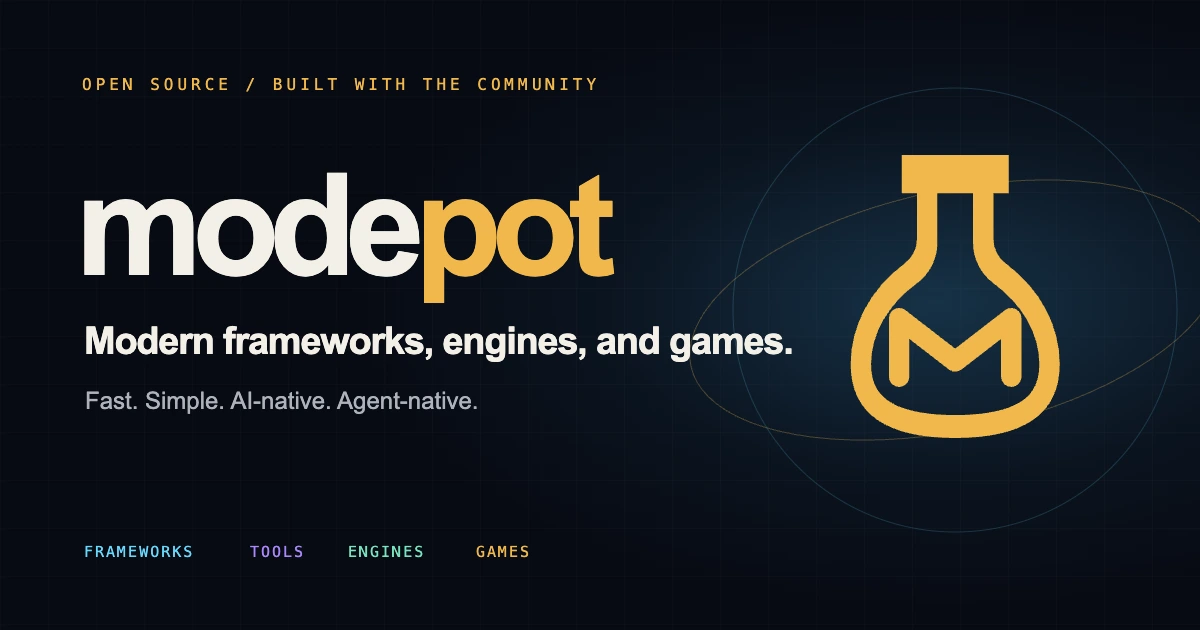
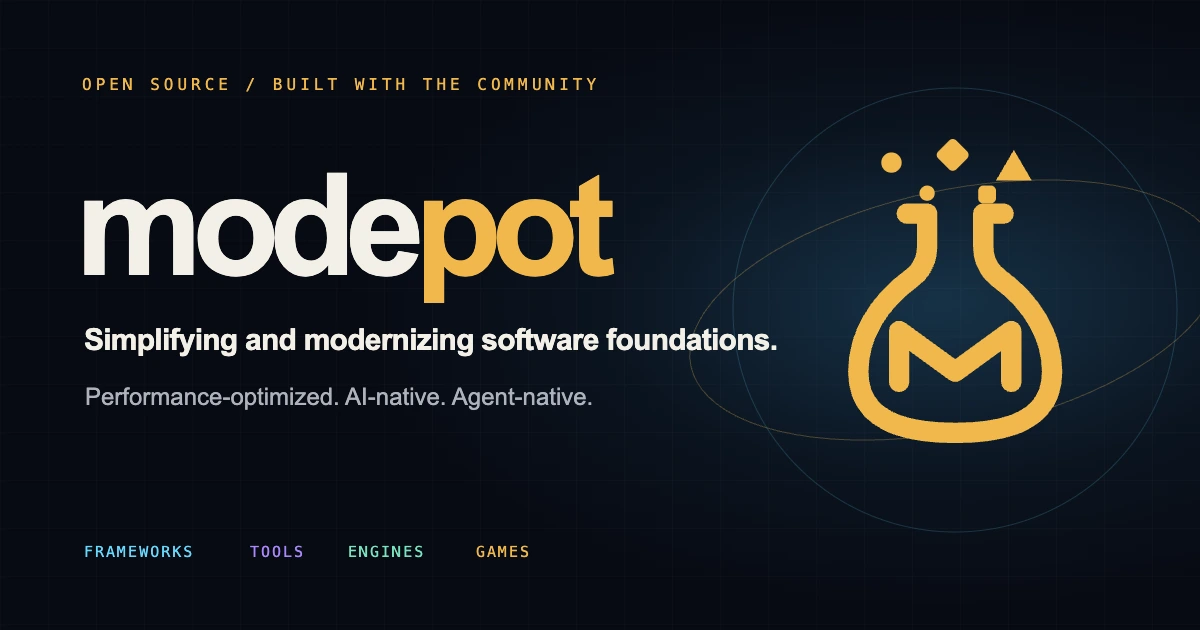
feat: express the ModePot recipe and mission

diff --git a/src/styles/global.css b/src/styles/global.css
@@ -373,21 +373,33 @@ nav a:hover {
 }
 
 .label-simple {
-  top: 17%;
+  top: 9%;
   left: 1%;
   color: var(--cyan);
 }
 
-.label-fast {
-  right: -1%;
+.label-modern {
+  top: 28%;
+  right: -4%;
+  color: var(--violet);
+}
+
+.label-performance {
   bottom: 31%;
+  left: -3%;
   color: var(--gold);
 }
 
-.label-native {
-  bottom: 9%;
-  left: 12%;
-  color: var(--violet);
+.label-ai {
+  right: 2%;
+  bottom: 14%;
+  color: #77e5bd;
+}
+
+.label-agents {
+  bottom: 2%;
+  left: 28%;
+  color: var(--cyan);
 }
 
 .object-note {

diff --git a/README.md b/README.md
@@ -1,6 +1,6 @@
 # ModePot
 
-The public home of ModePot: an open-source family and community building simple, fast, modern, AI-native and agent-native frameworks, tools, engines, and games.
+The public home of ModePot: an open-source family and community simplifying, modernizing, and performance-optimizing frameworks while building fast, simple, AI-native and agent-native tools, engines, and games.
 
 The family currently includes [Dexpot](https://github.com/tugrulguner/dexpot), [Intpot](https://github.com/tugrulguner/intpot), [Summonpot](https://github.com/tugrulguner/summonpot), and [LifePot](https://github.com/tugrulguner/lifepot). These are the beginning, not the boundary.
 
